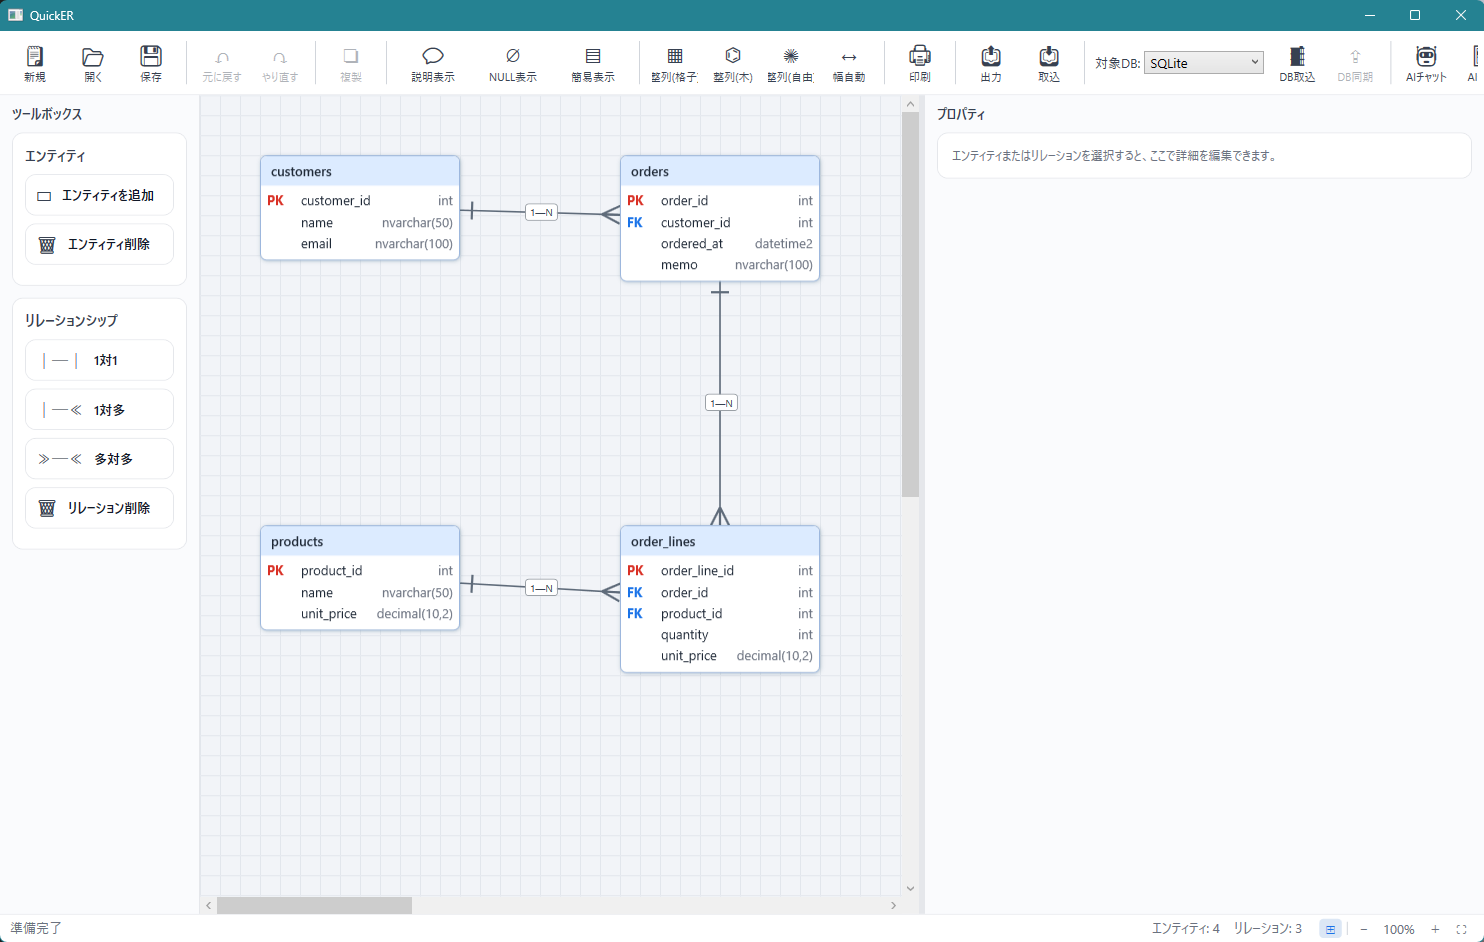
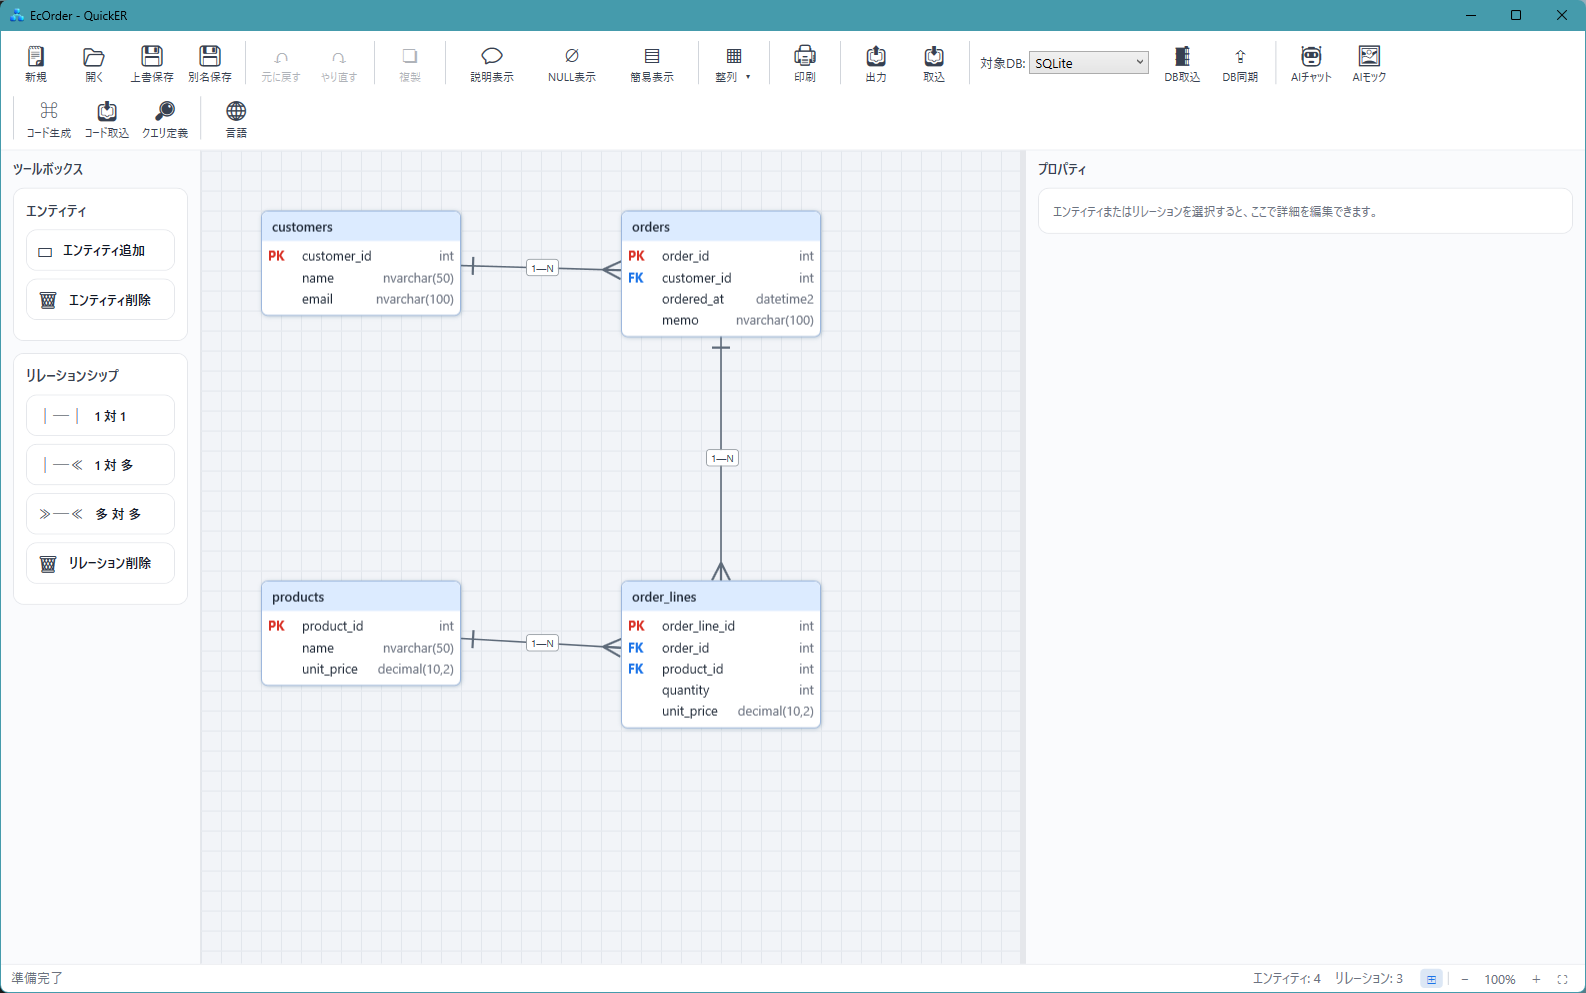
README のビジュアル素材を整備（ヒーロー再撮影・差分同期/AI チャット画像・編集 GIF・バッジ）
- ヒーロー日英を現行 UI（上書保存/別名保存・整列グループ・DB同期有効・文書タイトル）で再撮影
- 差分同期ダイアログ日英を新設: 列追加/列削除/テーブル削除の 3 差分で、破壊的変更の
  既定未選択と SQLite の PRAGMA＋foreign_key_check 入り SQL プレビューを実演
- AI チャット日英を新設: Claude Code 接続の実会話で受注管理スキーマを生成させた合成ショット
  （生成された図＋プロンプト＋作業ログ）。英語版は応答が日本語のまま（CLI のグローバル
  CLAUDE.md の影響＝仕様として妥協・撮り直しは todo 管理）
- 編集操作 GIF を新設: エンティティ追加→移動→1対多→Undo/Redo・カーソル合成・68 フレーム・633KB・日英共用
- README 日英: TODO コメント 4 種を実画像に置換・CI/Release/License バッジを設置
  （private の間 CI/Release は壊れ表示・public 化で正常化）

検証: 画像リンク全数実在・TODO 残存 0 を機械確認

diff --git a/README.md b/README.md
@@ -2,7 +2,9 @@
 
 *English | [日本語](README.ja.md)*
 
-<!-- TODO(badges): add CI / Release / License badges here at publication time (.github/workflows/ci.yml already exists, so a CI badge can be added immediately) -->
+[![CI](https://github.com/kokko-labs/QuickER/actions/workflows/ci.yml/badge.svg)](https://github.com/kokko-labs/QuickER/actions/workflows/ci.yml)
+[![Release](https://img.shields.io/github/v/release/kokko-labs/QuickER)](https://github.com/kokko-labs/QuickER/releases)
+[![License](https://img.shields.io/badge/license-MIT%20%2B%20PolyForm%20NC-blue)](#license)
 
 ## Design once. Generate the rest.
 
@@ -80,7 +82,7 @@ Design tables, columns, primary keys, foreign keys, and relationships visually i
 
 See [ER diagram editing](docs/er-editor.md) for details.
 
-<!-- TODO(GIF): add an editing GIF here (add an entity → draw a relationship → undo) -->
+![Editing demo (add entities → move → one-to-many relationship → undo / redo)](docs/images/er-editing.gif)
 
 ## Round-trip with live databases
 
@@ -99,7 +101,7 @@ Each diagram keeps its target DBMS, and you can switch to another SQL dialect at
 
 See [Database round-tripping](docs/database.md) for details.
 
-<!-- TODO(image): add a screenshot of the diff-sync dialog here -->
+![The diff-sync dialog (diff list and generated SQL preview; destructive changes are unselected by default)](docs/images/db-sync.png)
 
 ## Generate C# code
 
@@ -237,7 +239,7 @@ Supported connection methods:
 
 It can also generate web mockup screens (HTML) from the ER model.
 
-<!-- TODO(image): add a screenshot of the AI chat dialog here -->
+![Generating a full set of order-management tables through AI chat (Claude Code connection)](docs/images/ai-chat.png)
 
 See [Configuring AI chat](docs/ai-chat.md) for how to set it up.
 
